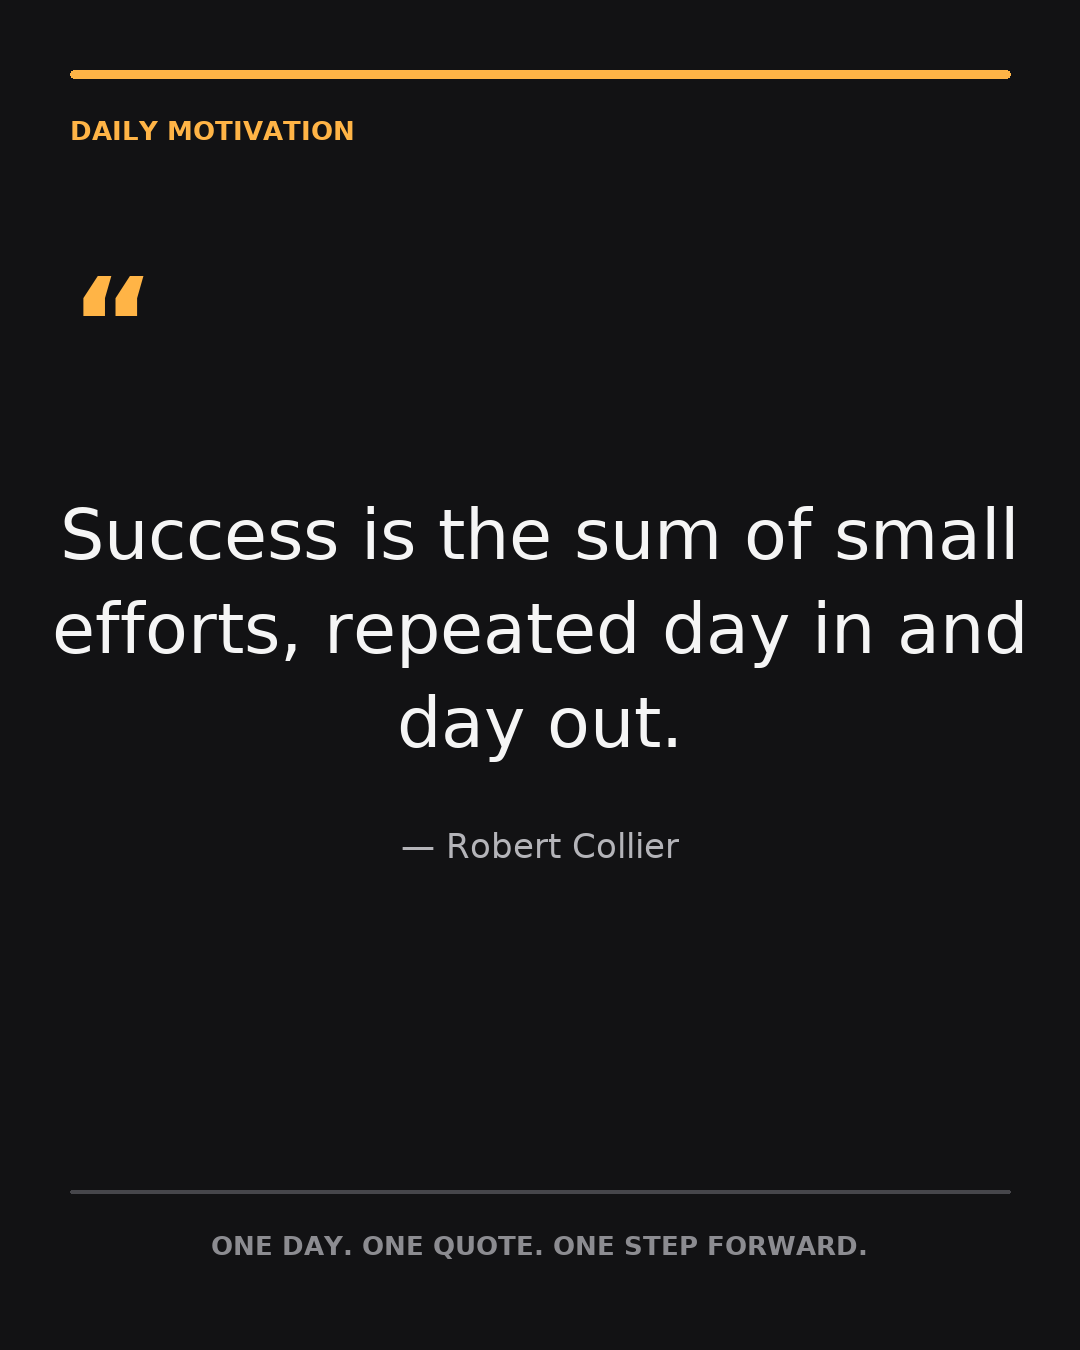
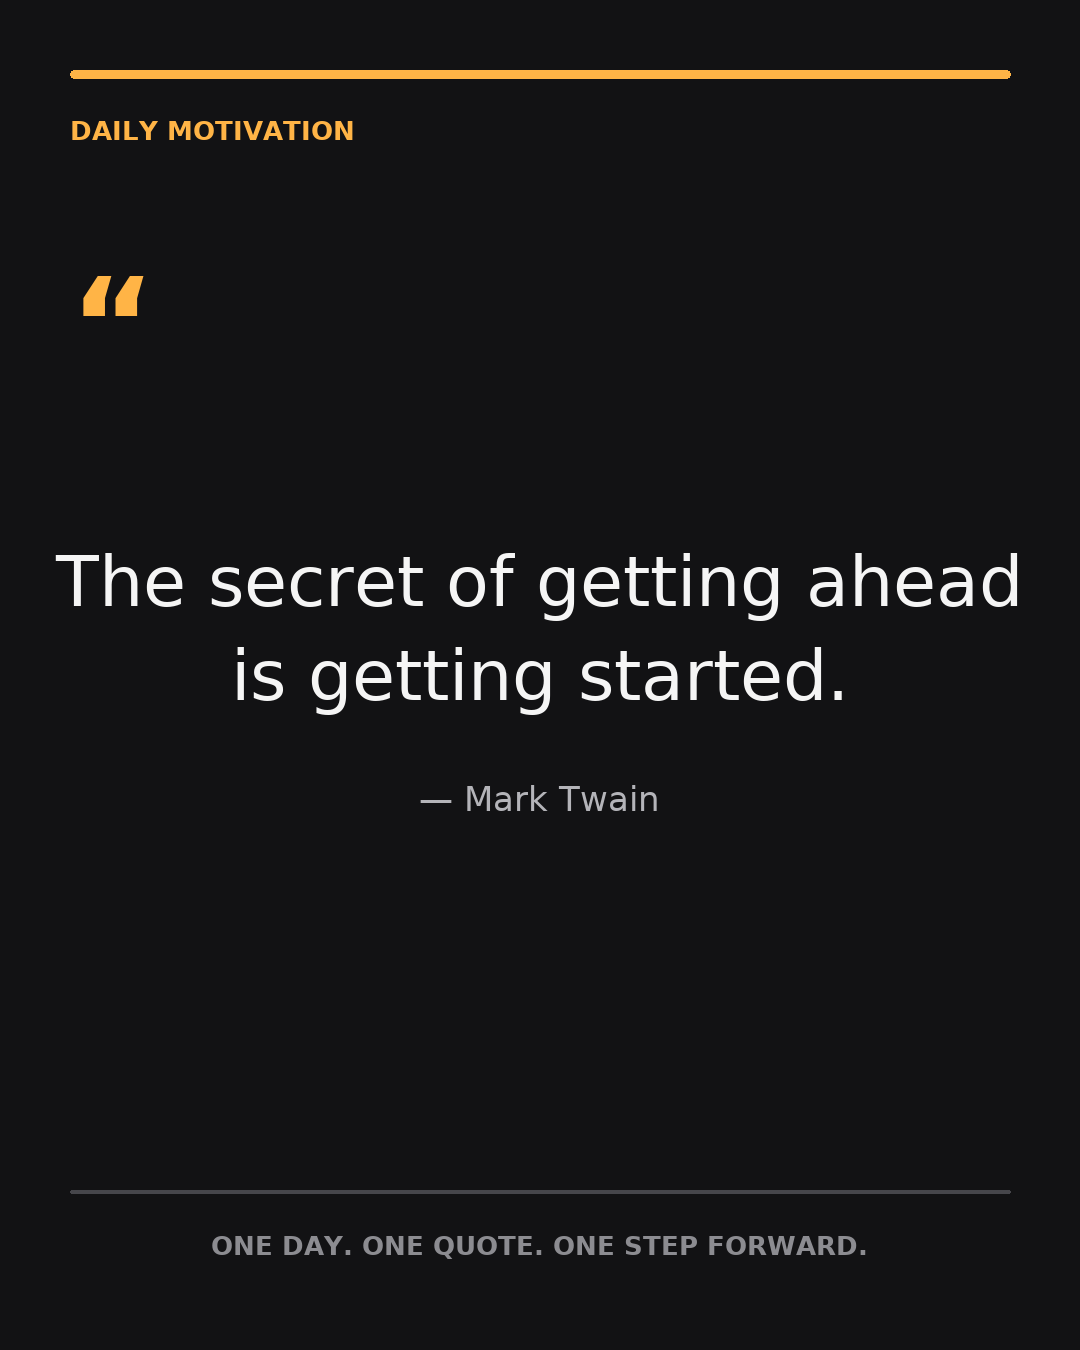
Prepare project for open-source use

Changed region(s): [[0.0306, 0.3733, 0.9472, 0.6533]]

diff --git a/app/poster_generator.py b/app/poster_generator.py
@@ -1,23 +1,22 @@
 from PIL import Image, ImageDraw, ImageFont
 from pathlib import Path
 import textwrap
+import json
 from datetime import datetime
 
 
 BASE_DIR = Path(__file__).resolve().parent.parent
 OUTPUT_DIR = BASE_DIR / "output"
 FONT_DIR = BASE_DIR / "fonts"
-
-WIDTH = 1080
-HEIGHT = 1350
-
-
-# --------------------------------------------------
-# Font paths
-# --------------------------------------------------
+CONFIG_FILE = BASE_DIR / "config.json"
 
 REGULAR_FONT = FONT_DIR / "DejaVuSans.ttf"
 BOLD_FONT = FONT_DIR / "DejaVuSans-Bold.ttf"
+
+
+def load_config():
+    with open(CONFIG_FILE, "r", encoding="utf-8") as file:
+        return json.load(file)
 
 
 def load_font(path, size):
@@ -27,13 +26,30 @@ def load_font(path, size):
 def create_poster(quote):
 
     # --------------------------------------------------
-    # 1. Check fonts
+    # 1. Load configuration
+    # --------------------------------------------------
+
+    config = load_config()
+    poster_config = config["poster"]
+
+    width = poster_config["width"]
+    height = poster_config["height"]
+
+    background_color = tuple(poster_config["background_color"])
+    accent_color = tuple(poster_config["accent_color"])
+    quote_color = tuple(poster_config["quote_color"])
+    author_color = tuple(poster_config["author_color"])
+    footer_color = tuple(poster_config["footer_color"])
+
+    brand_name = config["brand_name"]
+    footer_text = config["footer_text"]
+
+    # --------------------------------------------------
+    # 2. Check fonts
     # --------------------------------------------------
 
     print("Font directory:", FONT_DIR)
-    print("Regular font:", REGULAR_FONT)
     print("Regular font exists:", REGULAR_FONT.exists())
-    print("Bold font:", BOLD_FONT)
     print("Bold font exists:", BOLD_FONT.exists())
 
     if not REGULAR_FONT.exists():
@@ -47,19 +63,19 @@ def create_poster(quote):
         )
 
     # --------------------------------------------------
-    # 2. Create canvas
+    # 3. Create canvas
     # --------------------------------------------------
 
     image = Image.new(
         "RGB",
-        (WIDTH, HEIGHT),
-        (18, 18, 20)
+        (width, height),
+        background_color
     )
 
     draw = ImageDraw.Draw(image)
 
     # --------------------------------------------------
-    # 3. Adaptive quote font
+    # 4. Adaptive quote font
     # --------------------------------------------------
 
     quote_length = len(quote["text"])
@@ -94,46 +110,48 @@ def create_poster(quote):
     )
 
     # --------------------------------------------------
-    # 4. Top accent line
+    # 5. Top accent line
     # --------------------------------------------------
 
     draw.rounded_rectangle(
-        (70, 70, 1010, 78),
+        (70, 70, width - 70, 78),
         radius=4,
-        fill=(255, 180, 70)
+        fill=accent_color
     )
 
     # --------------------------------------------------
-    # 5. Brand name
+    # 6. Brand name
     # --------------------------------------------------
 
     draw.text(
         (70, 115),
-        "DAILY MOTIVATION",
+        brand_name,
         font=brand_font,
-        fill=(255, 180, 70)
+        fill=accent_color
     )
 
     # --------------------------------------------------
-    # 6. Quote mark
+    # 7. Quote mark
     # --------------------------------------------------
 
     draw.text(
         (70, 250),
         "“",
         font=quote_mark_font,
-        fill=(255, 180, 70)
+        fill=accent_color
     )
 
     # --------------------------------------------------
-    # 7. Prepare quote text
+    # 8. Prepare quote text
     # --------------------------------------------------
 
     quote_text = quote["text"]
 
+    wrap_width = poster_config["quote_wrap_width"]
+
     lines = textwrap.wrap(
         quote_text,
-        width=28
+        width=wrap_width
     )
 
     line_height = int(
@@ -144,15 +162,13 @@ def create_poster(quote):
         len(lines) * line_height
     )
 
-    # Center quote vertically
-
     start_y = (
-        (HEIGHT - total_height) // 2
+        (height - total_height) // 2
         - 40
     )
 
     # --------------------------------------------------
-    # 8. Draw quote
+    # 9. Draw quote
     # --------------------------------------------------
 
     for i, line in enumerate(lines):
@@ -163,28 +179,21 @@ def create_poster(quote):
             font=quote_font
         )
 
-        text_width = (
-            bbox[2] - bbox[0]
-        )
+        text_width = bbox[2] - bbox[0]
 
-        x = (
-            WIDTH - text_width
-        ) // 2
+        x = (width - text_width) // 2
 
-        y = (
-            start_y
-            + i * line_height
-        )
+        y = start_y + i * line_height
 
         draw.text(
             (x, y),
             line,
             font=quote_font,
-            fill=(245, 245, 245)
+            fill=quote_color
         )
 
     # --------------------------------------------------
-    # 9. Author
+    # 10. Author
     # --------------------------------------------------
 
     author = f"— {quote['author']}"
@@ -195,66 +204,54 @@ def create_poster(quote):
         font=author_font
     )
 
-    author_width = (
-        bbox[2] - bbox[0]
-    )
+    author_width = bbox[2] - bbox[0]
 
-    author_y = (
-        start_y
-        + total_height
-        + 50
-    )
+    author_y = start_y + total_height + 50
 
     draw.text(
         (
-            (WIDTH - author_width) // 2,
+            (width - author_width) // 2,
             author_y
         ),
         author,
         font=author_font,
-        fill=(180, 180, 185)
+        fill=author_color
     )
 
     # --------------------------------------------------
-    # 10. Bottom separator
+    # 11. Bottom separator
     # --------------------------------------------------
 
     draw.rounded_rectangle(
-        (70, 1190, 1010, 1193),
+        (70, height - 160, width - 70, height - 157),
         radius=2,
         fill=(70, 70, 75)
     )
 
     # --------------------------------------------------
-    # 11. Footer
+    # 12. Footer
     # --------------------------------------------------
-
-    footer = (
-        "ONE DAY. ONE QUOTE. ONE STEP FORWARD."
-    )
 
     bbox = draw.textbbox(
         (0, 0),
-        footer,
+        footer_text,
         font=brand_font
     )
 
-    footer_width = (
-        bbox[2] - bbox[0]
-    )
+    footer_width = bbox[2] - bbox[0]
 
     draw.text(
         (
-            (WIDTH - footer_width) // 2,
-            1230
+            (width - footer_width) // 2,
+            height - 120
         ),
-        footer,
+        footer_text,
         font=brand_font,
-        fill=(140, 140, 145)
+        fill=footer_color
     )
 
     # --------------------------------------------------
-    # 12. Save poster
+    # 13. Save poster
     # --------------------------------------------------
 
     OUTPUT_DIR.mkdir(
@@ -263,9 +260,7 @@ def create_poster(quote):
 
     today = datetime.now().strftime("%Y-%m-%d")
 
-    output_path = (
-        OUTPUT_DIR / f"motivation_{today}.png"
-    )
+    output_path = OUTPUT_DIR / f"motivation_{today}.png"
 
     image.save(
         output_path,
